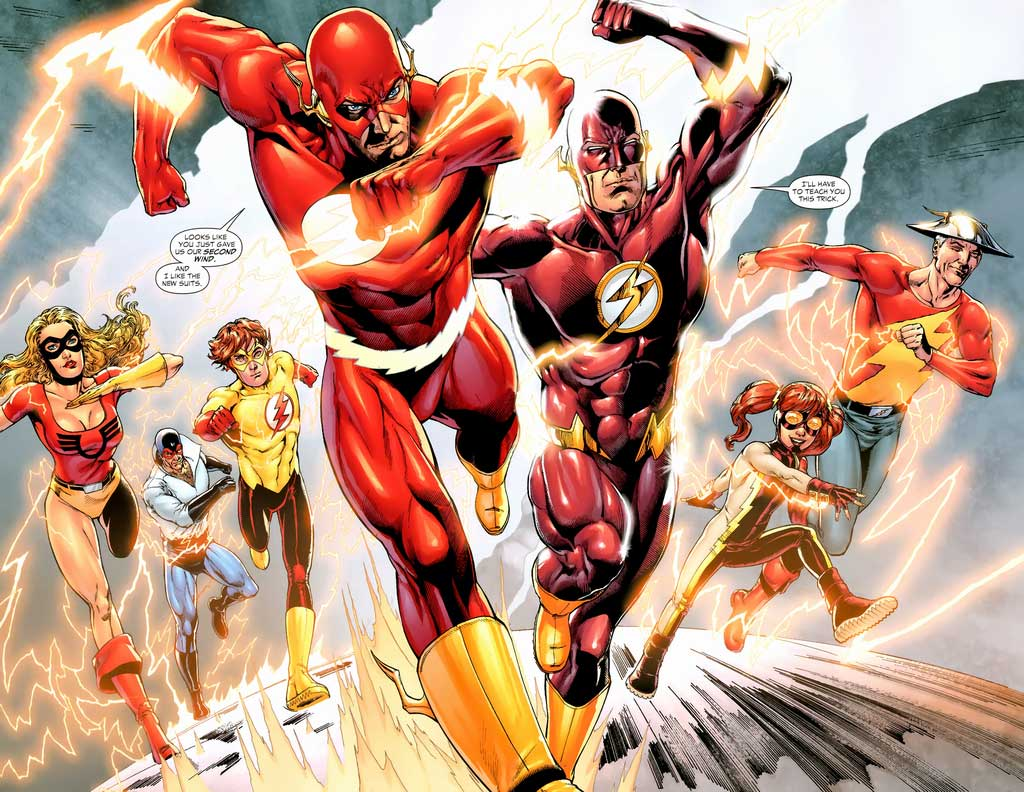
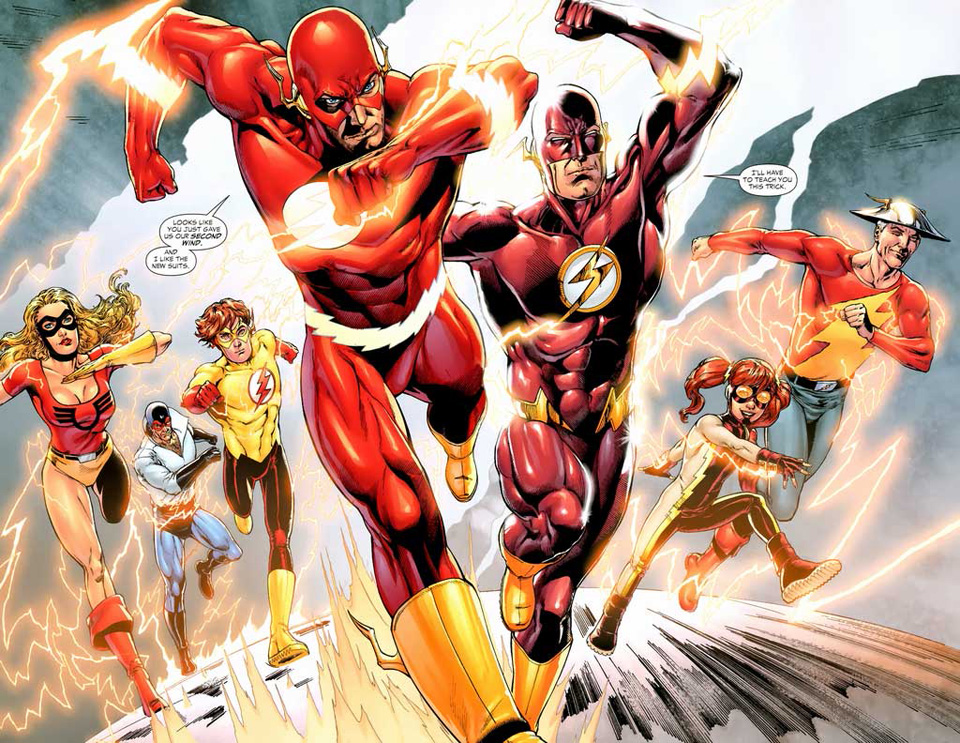
increased difficulty and resized pic for puzzle

diff --git a/WebProjects/JavascriptPuzzle/index.html b/WebProjects/JavascriptPuzzle/index.html
@@ -3,7 +3,7 @@
 <head>
     <title>HTML5 Puzzle</title>
     <script>
-	const PUZZLE_DIFFICULTY = 4; //holds the number of pieces in the puzzle (4 x 4)
+	const PUZZLE_DIFFICULTY = 5; //holds the number of pieces in the puzzle (4 x 4)
 	const PUZZLE_HOVER_TINT = '#009900'; 
 	 
 	var _canvas; //reference to the canvas
